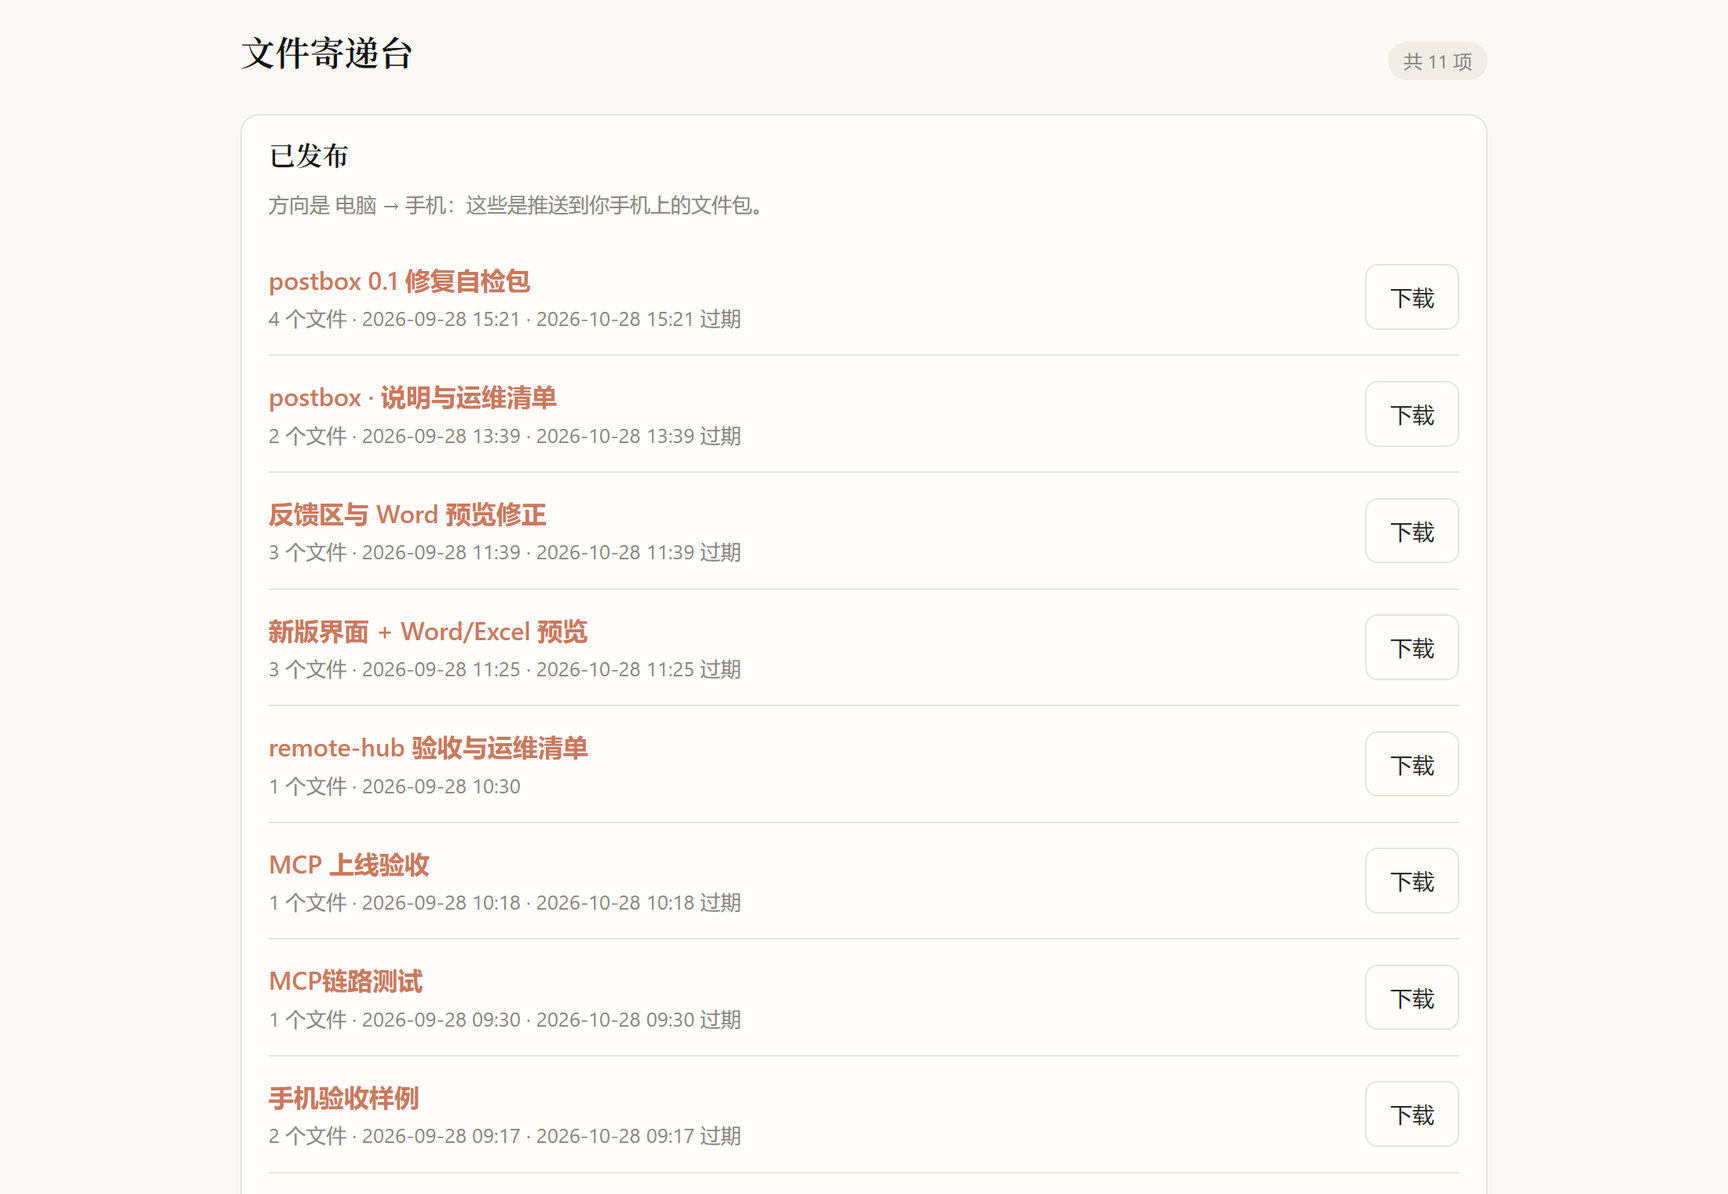
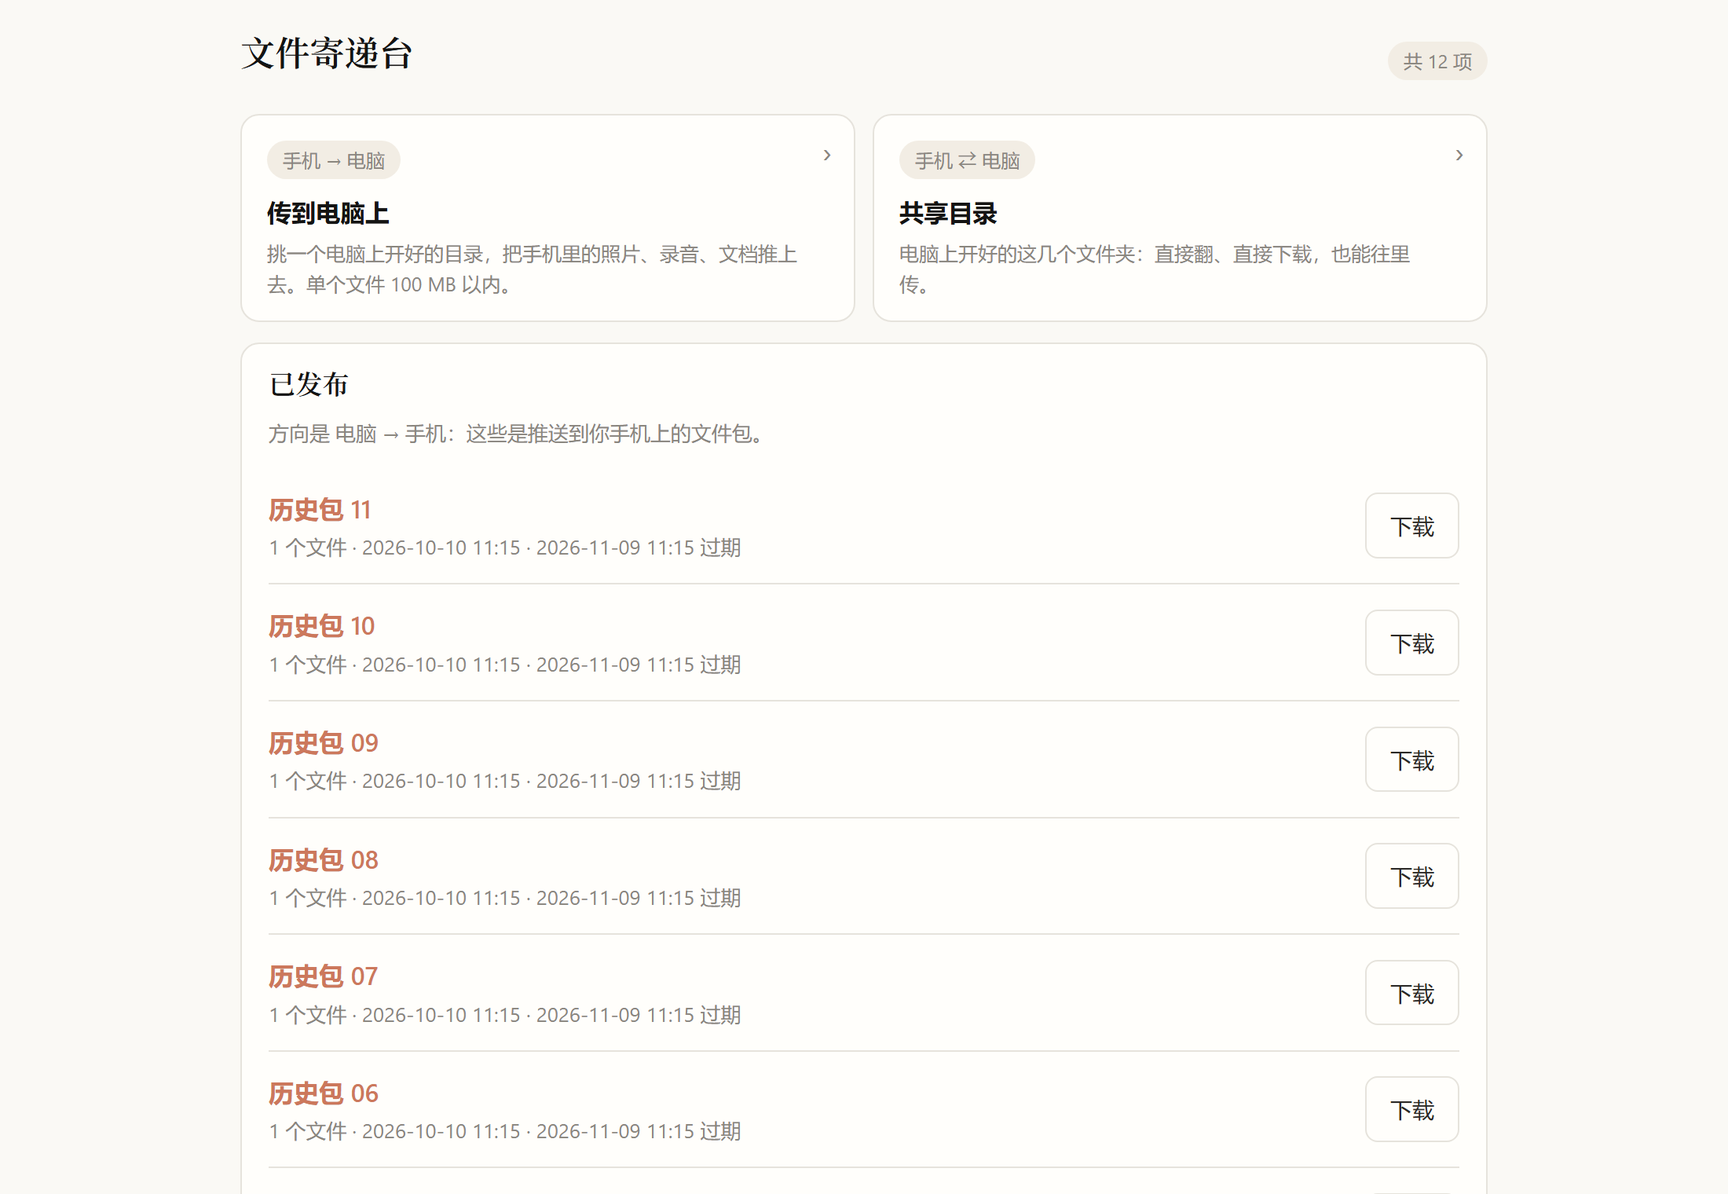
One row per folder, and the entries on top
The home page led with 已发布, which is the one thing that only ever grows: after a
month of publishing, 传到电脑上 and 共享目录 — the two things actually tapped from a
phone — were pushed below the fold, so every visit started with a scroll to the
bottom. They now sit right under the title as full-width tap targets, and the bundle
list shows the 8 most recent with the rest behind 还有 N 个更早的.

The desktop home screenshot is re-taken from an isolated instance, so it shows the new
order and synthetic bundle names. One doc example had lost a backslash to an old
escape bug (`C:\anything` had become `C:` + BEL + `anything`) and is repaired.

diff --git a/src/serve.rs b/src/serve.rs
@@ -24,6 +24,9 @@ const FB_PER_MIN: u32 = 6;
 const TEXT_PREVIEW_MAX: u64 = 512 * 1024;
 /// Word / 表格页内解析上限
 const OFFICE_PREVIEW_MAX: u64 = 20 * 1024 * 1024;
+/// 首页「已发布」一屏先给多少条。包会一直攒着，全列出来就把真正要点的入口顶出屏幕了；
+/// 多出来的收在「还有 N 个更早的」后面，`?all=1` 展开。
+const HOME_RECENT: usize = 8;
 
 pub struct AppState {
     pub root: PathBuf,
@@ -333,6 +336,15 @@ header.top{display:flex;justify-content:space-between;align-items:center;gap:10p
 .updir span{min-width:0}
 .updir b{font-weight:600;word-break:break-all}
 .updir small{display:block;color:var(--muted);font-size:12.5px;margin-top:1px}
+.go{display:grid;grid-template-columns:repeat(auto-fit,minmax(230px,1fr));gap:11px;margin:13px 0}
+.goitem{position:relative;display:block;background:var(--card);border:1px solid var(--line);border-radius:12px;padding:13px 32px 14px 16px;color:var(--ink) !important}
+.goitem:hover,.goitem:active{text-decoration:none;border-color:var(--acc);background:#fffdf9}
+.goitem b{display:block;font-size:15.5px;font-weight:600;color:var(--head);letter-spacing:.1px}
+.goitem small{display:block;color:var(--muted);font-size:12.5px;line-height:1.55;margin-top:3px}
+.goitem::after{content:"›";position:absolute;right:14px;top:13px;color:var(--muted);font-size:19px;line-height:1}
+.goitem:hover::after{color:var(--acc-d)}
+.goitem .badge{margin-bottom:8px}
+.fold{margin:10px 0 0;font-size:13px}
 .bar{height:4px;background:var(--soft);border-radius:3px;overflow:hidden;margin:7px 0 3px}
 .bar>i{display:block;height:100%;width:0;background:var(--acc);transition:width .2s}
 ul.upl{list-style:none;margin:12px 0 0;padding:0}
@@ -395,23 +407,6 @@ fn home_body(
     // 不在每次打开首页时全目录扫描清理：那是同步遍历，手机刷新一下就得一遍。
     // 过期包由每小时的例行清理和发布时的清理兜住，读取单包时也各自校验有效期。
     let bundles = store::list_bundles(&st.root);
-    let mut rows = String::new();
-    if bundles.is_empty() {
-        rows = "<p class=muted>还没有已发布的文件。</p>".to_string();
-    }
-    for b in &bundles {
-        rows.push_str(&format!(
-            "<li><div><a href=\"/b/{}\"><b>{}</b></a><div class=muted>{} 个文件 · {}{}</div></div><a class=\"btn ghost\" href=\"/d/{}/0\">下载</a></li>",
-            esc(&b.token),
-            esc(&b.title),
-            b.files.len(),
-            store::fmt_time(b.created_ms),
-            b.expires_ms
-                .map(|e| format!(" · {} 过期", store::fmt_time(e)))
-                .unwrap_or_default(),
-            esc(&b.token)
-        ));
-    }
     let fbs = store::list_feedback(&st.root, 10);
     let mut fb_html = String::new();
     for f in fbs {
@@ -427,30 +422,82 @@ fn home_body(
         fb_html =
             "<p class=muted>还没有反馈。你在文件包页面底部写的意见都会汇总到这里。</p>".into();
     }
-    let share = if cfg.share_dirs.is_empty() {
-        String::new()
-    } else {
-        "<div class=card><h2>共享目录</h2><p class=hint>方向是 手机 ⇄ 电脑：电脑上开好的这几个文件夹，手机可以直接翻、直接下载，也能往里传。</p><a class=btn href=\"/s\">打开共享目录</a></div>".to_string()
-    };
-    let upload = if write_targets(&cfg).is_empty() {
-        String::new()
-    } else {
-        format!("<div class=card><h2>传到电脑上</h2><p class=hint>方向是 手机 → 电脑：选一个电脑上开好的目录，把手机里的照片、录音、文档推上去。单个文件 {} 以内。</p><a class=btn href=\"/upload\">打开上传页</a></div>", mb_label(cfg.upload_max_mb))
-    };
-    let body = format!(
-        "<header class=top><h1>文件寄递台</h1><span class=badge>共 {} 项</span></header>\
-<div class=card><h2>已发布</h2><p class=hint>方向是 电脑 → 手机：这些是推送到你手机上的文件包。</p><ul class=files>{rows}</ul></div>\
-{share}\
-{upload}\
-<div class=card><h2>手机回传的意见</h2><p class=hint>方向是 手机 → 电脑：你在文件包页面底部写的字会存回电脑的收件箱，只有我这边的 agent 读得到。</p>{fb_html}</div>",
-        bundles.len()
-    );
+    // `?all` 展开更早的包；`?all=0`（以及不带这个参数）都只看最近几条
+    let show_all = q.get("all").map(|v| v != "0").unwrap_or(false);
+    let body = home_html(&cfg, &bundles, &fb_html, show_all);
     let mut res = Html(page("文件寄递台", &body)).into_response();
     // 通过 ?key= 进来时把密钥记到 Cookie，这样文件页的返回按钮不必再带上明文密钥
     if q.contains_key("key") {
         set_key_cookie(&mut res, &cfg);
     }
     res
+}
+
+/// 首页的排布。**要做的事排在历史前面**：两个入口（传到电脑上 / 共享目录）是每天点的，
+/// 而文件包只会越攒越多 —— 让它们排在列表底下，手机上就得每次都划到底。
+/// 入口做成整卡可点，因为「卡片标题 + 一个小按钮」在窄屏上要点两回才知道能不能点。
+fn home_html(cfg: &Config, bundles: &[BundleMeta], fb_html: &str, show_all: bool) -> String {
+    let mut go = String::new();
+    if !write_targets(cfg).is_empty() {
+        go.push_str(&format!(
+            "<a class=goitem href=\"/upload\"><span class=badge>手机 → 电脑</span><b>传到电脑上</b><small>挑一个电脑上开好的目录，把手机里的照片、录音、文档推上去。单个文件 {} 以内。</small></a>",
+            mb_label(cfg.upload_max_mb)
+        ));
+    }
+    if !cfg.share_dirs.is_empty() {
+        go.push_str("<a class=goitem href=\"/s\"><span class=badge>手机 ⇄ 电脑</span><b>共享目录</b><small>电脑上开好的这几个文件夹：直接翻、直接下载，也能往里传。</small></a>");
+    }
+    let go = if go.is_empty() {
+        String::new()
+    } else {
+        format!("<div class=go>{go}</div>")
+    };
+
+    let mut rows = String::new();
+    if bundles.is_empty() {
+        rows = "<p class=muted>还没有已发布的文件。</p>".to_string();
+    }
+    // 折叠只在真的超出窗口时发生，否则 listed 就是全部
+    let folded = bundles.len() > HOME_RECENT && !show_all;
+    let listed = if folded {
+        &bundles[..HOME_RECENT]
+    } else {
+        bundles
+    };
+    for b in listed {
+        rows.push_str(&format!(
+            "<li><div><a href=\"/b/{}\"><b>{}</b></a><div class=muted>{} 个文件 · {}{}</div></div><a class=\"btn ghost\" href=\"/d/{}/0\">下载</a></li>",
+            esc(&b.token),
+            esc(&b.title),
+            b.files.len(),
+            store::fmt_time(b.created_ms),
+            b.expires_ms
+                .map(|e| format!(" · {} 过期", store::fmt_time(e)))
+                .unwrap_or_default(),
+            esc(&b.token)
+        ));
+    }
+    let fold = if folded {
+        format!(
+            "<p class=fold><a href=\"?all=1\">还有 {} 个更早的，全部展开</a></p>",
+            bundles.len() - HOME_RECENT
+        )
+    } else if show_all && bundles.len() > HOME_RECENT {
+        format!(
+            "<p class=fold><a href=\"/\">收起来，只留最近 {} 个</a></p>",
+            HOME_RECENT
+        )
+    } else {
+        String::new()
+    };
+    format!(
+        "<header class=top><h1>文件寄递台</h1><span class=badge>共 {} 项</span></header>\
+{}\
+<div class=card><h2>已发布</h2><p class=hint>方向是 电脑 → 手机：这些是推送到你手机上的文件包。</p><ul class=files>{rows}</ul>{fold}</div>\
+<div class=card><h2>手机回传的意见</h2><p class=hint>方向是 手机 → 电脑：你在文件包页面底部写的字会存回电脑的收件箱，只有我这边的 agent 读得到。</p>{fb_html}</div>",
+        bundles.len(),
+        go
+    )
 }
 
 /// 一条反馈的展示：正文 + 「谁给谁 · 关于哪个文件包 · 时间」。link=false 用于文件页内，包名不重复出现。
@@ -3303,6 +3350,74 @@ mod tests {
         assert!(html.contains("共享目录"), "没标出这是共享目录: {html}");
         std::fs::remove_dir_all(&dir).ok();
         std::fs::remove_dir_all(&st.root).ok();
+    }
+
+    #[test]
+    fn home_puts_the_two_entries_above_the_history() {
+        // 用户报的就是这个：入口被几十个历史包顶到最底下，每次都要划到底才能点
+        let st = state("home");
+        let mut cfg = st.cfg.clone();
+        cfg.upload_dirs = vec!["D:/drop".into()];
+        cfg.share_dirs = vec!["D:/shelf".into()];
+        let bundles: Vec<BundleMeta> = (0..3).map(bundle).collect();
+        let html = home_html(&cfg, &bundles, "<p>fb</p>", false);
+        let up = html.find("href=\"/upload\"").expect("没有上传入口");
+        let sh = html.find("href=\"/s\"").expect("没有共享目录入口");
+        let first = html.find("/b/t0").expect("没有已发布列表");
+        assert!(
+            up < first && sh < first,
+            "入口排在历史后面: up={up} sh={sh} first={first}"
+        );
+        // 入口本身在历史那张卡之前，页面顺序是 入口 → 已发布 → 意见
+        assert!(
+            html.find("已发布").unwrap() < html.find("手机回传的意见").unwrap(),
+            "{html}"
+        );
+        assert!(!html.contains("SECRET-KEY-1234567890"), "{html}");
+        std::fs::remove_dir_all(&st.root).ok();
+    }
+
+    #[test]
+    fn home_folds_older_bundles_and_can_unfold() {
+        let st = state("homefold");
+        let cfg = st.cfg.clone();
+        let many: Vec<BundleMeta> = (0..HOME_RECENT + 4).map(bundle).collect();
+        let folded = home_html(&cfg, &many, "<p>fb</p>", false);
+        assert_eq!(
+            folded.matches("/b/t").count(),
+            HOME_RECENT,
+            "折叠时列多了: {folded}"
+        );
+        assert!(folded.contains("还有 4 个更早的"), "{folded}");
+        assert!(!folded.contains("/b/t11"), "折叠还露出了最老的那条");
+        assert_eq!(folded.matches("共 12 项").count(), 1, "徽标数应含全部");
+
+        let open = home_html(&cfg, &many, "<p>fb</p>", true);
+        assert_eq!(open.matches("/b/t").count(), HOME_RECENT + 4);
+        assert!(open.contains("收起来，只留最近"), "{open}");
+
+        // 没超过窗口时不该出现折叠文案，也不该有空的 <p>
+        let few = home_html(&cfg, &many[..3], "<p>fb</p>", false);
+        assert!(!few.contains("还有"), "{few}");
+        assert!(!few.contains("<p class=fold></p>"), "{few}");
+        std::fs::remove_dir_all(&st.root).ok();
+    }
+
+    /// 一条已发布的包，够首页渲染用就行
+    fn bundle(i: usize) -> BundleMeta {
+        BundleMeta {
+            token: format!("t{i}"),
+            title: format!("包 {i}"),
+            note: String::new(),
+            created_ms: 1_700_000_000_000 + i as i64,
+            expires_ms: None,
+            files: vec![store::FileEntry {
+                name: "a.txt".into(),
+                stored: "a.txt".into(),
+                size: 3,
+            }],
+            has_archive: false,
+        }
     }
 
     #[test]

diff --git a/docs/operations.zh-CN.md b/docs/operations.zh-CN.md
@@ -33,6 +33,7 @@ data/autostart.vbs         只有注册了 Windows 登录自启才会有
 - [ ] 在文件包页面（`/b/<token>`）底部「写反馈」提交一句话，`data/inbox/feedback.jsonl` 里多一行，`postbox inbox` 能看到
 - [ ] 这条反馈只出现在该文件包页面的「你在这个文件页提交过的意见」下面，别的地方看不到
 - [ ] `/?key=访问密钥` 列出全部在有效期内的文件包和各自过期时间；密钥错或不填时出现的是输入密钥的表单，不是列表
+- [ ] 同一页上「传到电脑上」「共享目录」排在文件包列表**前面**；包攒过 8 个之后多出来的收在「还有 N 个更早的」里（`?all=1` 展开）—— 这两个入口不该要靠往下翻才点得到
 - [ ] 单个文件「下载原文件」可用；多文件包「打包下载全部」得到 zip 且能解压，中文文件名不乱码
 - [ ] 图片 / PDF / 音视频在页内直接预览；`.md` 渲染成排版页面；`.docx` 连内嵌图片一起渲染；`.xlsx` 按工作表渲染
 - [ ] 视频能拖进度条：`curl -sD - -o /dev/null -H 'Range: bytes=0-1023' http://127.0.0.1:<端口>/raw/<token>/<序号>` 回 `206` 且带 `content-range: bytes 0-1023/<文件大小>`；手机上不必等整段传完就能开播、能拖到中间
@@ -44,7 +45,7 @@ data/autostart.vbs         只有注册了 Windows 登录自启才会有
 - [ ] 从共享目录页上的「传东西到这个文件夹」传进去的文件，确实落在那一层，刷新就能看到
 - [ ] `postbox logs` 能看到隧道就绪和推送记录；重启后约 30 秒内手机收到「postbox 新地址」推送 —— 没收到时 `logs` 会写明推送是不是失败了、为什么
 - [ ] 同一个文件名传两次得到 `名字 (1).ext`，电脑上原有那份没被顶掉
-- [ ] `postbox upload add C:nything` 被拒绝并说清楚为什么；一个还不存在的目录同样被拒绝
+- [ ] `postbox upload add C:\anything` 被拒绝并说清楚为什么；一个还不存在的目录同样被拒绝
 - [ ] 不带访问密钥时上传页回 401，`POST /api/upload` 也回 401
 - [ ] 超过 48 MB 的文件会分成几片到达并逐字节拼回原样；掐断其中一片后，是按电脑报回的 `received` 位置续传，不是从头再传
 - [ ] 手机上点「提交反馈」真的能提交（页面 CSP 里要有 `connect-src 'self'`，缺了这行按钮点了没反应）

diff --git a/README.zh-CN.md b/README.zh-CN.md
@@ -35,11 +35,11 @@ macOS，单个文件、免安装、不用装 Rust
 <td align="center"><sub>Markdown：排版成能读的页面</sub></td>
 </tr>
 <tr>
-<td width="66%" colspan="2"><img src="docs/screenshots/home-desktop.png" alt="电脑浏览器里的首页：文件包列表和手机回来的反馈"></td>
+<td width="66%" colspan="2"><img src="docs/screenshots/home-desktop.png" alt="电脑浏览器里的首页：最上面是传到电脑上和共享目录两个入口，下面是文件包列表"></td>
 <td width="34%"><img src="docs/screenshots/bundle-phone.png" alt="手机上的文件包页面：文件列表和写反馈的输入框"></td>
 </tr>
 <tr>
-<td colspan="2" align="center"><sub>用 <code>/?key=…</code> 打开：所有还没过期的文件包，加上手机回过的话</sub></td>
+<td colspan="2" align="center"><sub>用 <code>/?key=…</code> 打开：手机上来要做的两件事排在最前面，文件包列表（超过 8 个折起来）和反馈在后面</sub></td>
 <td align="center"><sub>手机上的文件包页：文件、整包 zip、反馈输入框</sub></td>
 </tr>
 </table>
@@ -220,7 +220,7 @@ curl.exe -L -o tools\cloudflared.exe https://github.com/cloudflare/cloudflared/r
   Cloudflare 隧道、Tailscale 或反向代理），`base_url` 自己设——代码不关心域名从哪来。
 * 网页界面**和命令行输出**都是中文；参数名、配置键、注释和文档中英双语。加一层 locale 是
   很好的第一个贡献，见 [`CONTRIBUTING.md`](CONTRIBUTING.md)。
-* 77 个单元测试 + 三个系统跑 CI，但没有浏览器自动化：页面在真机上长什么样仍然靠人看，所以
+* 80 个单元测试 + 三个系统跑 CI，但没有浏览器自动化：页面在真机上长什么样仍然靠人看，所以
   运维文档里带了一份验收清单。
 
 ## 相关文档

diff --git a/README.md b/README.md
@@ -36,11 +36,11 @@ macOS, one binary, no installer, no Rust needed
 <td align="center"><sub>Markdown rendered as a readable page</sub></td>
 </tr>
 <tr>
-<td width="66%" colspan="2"><img src="docs/screenshots/home-desktop.png" alt="Home page on a desktop browser listing bundles and the feedback inbox"></td>
+<td width="66%" colspan="2"><img src="docs/screenshots/home-desktop.png" alt="Home page on a desktop browser: the upload and shared-folder entries on top, then the bundles"></td>
 <td width="34%"><img src="docs/screenshots/bundle-phone.png" alt="Bundle page on a phone with the file list and the feedback box"></td>
 </tr>
 <tr>
-<td colspan="2" align="center"><sub>Behind <code>/?key=…</code>: every live bundle, plus the notes the phone sent back</sub></td>
+<td colspan="2" align="center"><sub>Behind <code>/?key=…</code>: the two things you actually do from a phone sit on top; the bundle list (folded past 8) and the inbox follow</sub></td>
 <td align="center"><sub>A bundle page on the phone: files, whole-bundle zip, note box</sub></td>
 </tr>
 </table>
@@ -245,7 +245,7 @@ What is by design, what to report privately, and how to harden further:
 * The web UI **and the CLI output** are Chinese; flags, config keys, comments and docs are
   bilingual. A locale layer is a good first contribution — see
   [`CONTRIBUTING.md`](CONTRIBUTING.md).
-* 77 unit tests and CI on three OSes, but no browser automation: what a page looks like on a
+* 80 unit tests and CI on three OSes, but no browser automation: what a page looks like on a
   real phone is still checked by hand, which is why the operations doc carries an acceptance
   checklist.
 

diff --git a/CHANGELOG.md b/CHANGELOG.md
@@ -23,16 +23,21 @@ All notable changes to this project are documented here. The format follows
 
 ### Changed
 
+- **The home page leads with what you do from a phone.** 传到电脑上 and 共享目录 used to sit
+  under the whole bundle list, so once a month of publishing accumulated you had to scroll past
+  all of it to reach the two things you actually tap. They are now full-width tap targets in a
+  row above the list (two across on a desktop), and the list itself shows the 8 most recent
+  bundles with 还有 N 个更早的 behind `?all=1`.
 - To the phone the upload whitelist and the share whitelist are one list: `d` counts the
   folders it may write to, upload-only ones first. The upload page labels which is which, and
   each shared folder's own page links to it with the right number. A folder opened both ways
   takes one row, not two identically named radio buttons.
 - The `upload` and `share` subcommands share one implementation, so `add` / `list` / `rm`
   behave the same way on both.
-- Eight tests land in `serve.rs`, bringing the suite to 78: shared-folder resolution
+- Ten tests land in `serve.rs`, bringing the suite to 80: shared-folder resolution
   (staying inside the opened folder, nesting without escaping), the per-segment percent
   encoding of share URLs, media ids that follow a file as it changes, the pages never printing
-  the access key, and the merged write-target list.
+  the access key, the merged write-target list, and the home page's order and folding.
 
 ### Fixed
 

diff --git a/docs/operations.md b/docs/operations.md
@@ -40,6 +40,7 @@ Tick these off on a real phone:
 - [ ] Submitting one line in the **写反馈** box on a bundle page (`/b/<token>`) appends a line to `data/inbox/feedback.jsonl`, and `postbox inbox` shows it
 - [ ] The same note appears under "你在这个文件页提交过的意见" on that bundle page, and nowhere else
 - [ ] `/?key=<access key>` lists every live bundle; wrong or missing key gives the key-entry form, not the list
+- [ ] On that page 传到电脑上 and 共享目录 sit **above** the bundle list, and once more than 8 bundles pile up the rest fold behind 还有 N 个更早的 (`?all=1`) — the entries must never need a scroll to reach
 - [ ] "Download original" works per file; multi-file bundles produce a zip that actually unzips, with the original non-ASCII filenames intact
 - [ ] Images / PDF / audio / video preview in page; `.md` renders; `.docx` renders with its embedded images; `.xlsx` renders sheet by sheet
 - [ ] Video seeks: `curl -sD - -o /dev/null -H 'Range: bytes=0-1023' http://127.0.0.1:<port>/raw/<token>/<idx>` answers `206` with `content-range: bytes 0-1023/<size>`, and the page's player can be dragged to the middle of a clip without the whole file arriving first
